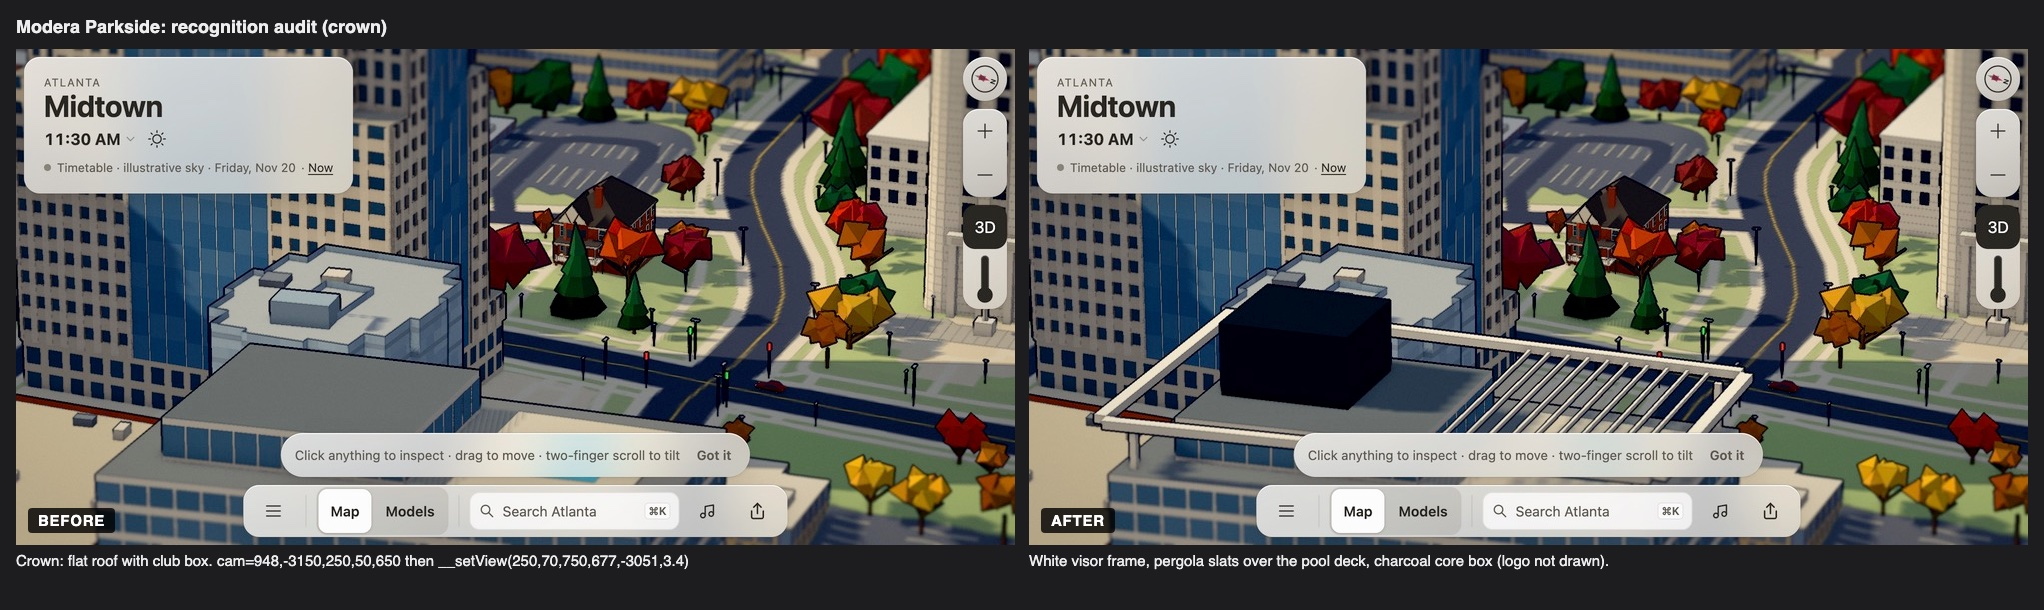
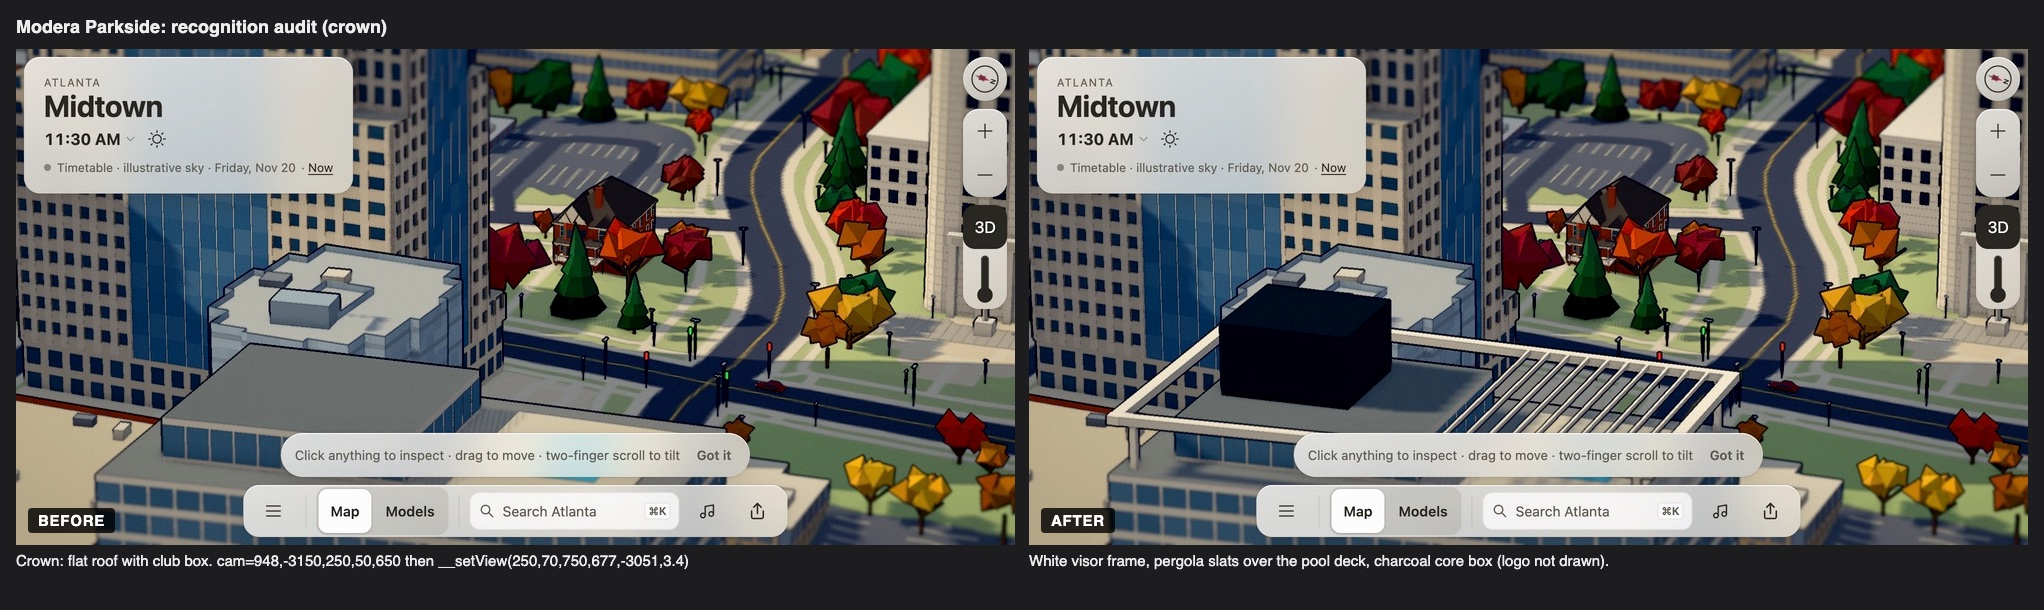
Set Modera Parkside's crown visor inside the slab outline so its posts and slats meet it

diff --git a/web/src/city/modera-parkside.ts b/web/src/city/modera-parkside.ts
@@ -74,7 +74,7 @@ export function createModeraParkside(buildings: VBuilding[], site: VBuilding, gr
   const visorLo = amenityTop + 0.6, visorHi = amenityTop + 1.6;
   slab.forEach((p, i) => {
     const q = slab[(i + 1) % slab.length], len = Math.hypot(q[0] - p[0], q[1] - p[1]);
-    const nx = (q[1] - p[1]) / len * 1.4, nz = -(q[0] - p[0]) / len * 1.4; // inward for a counter-clockwise ring
+    const nx = -(q[1] - p[1]) / len * 1.4, nz = (q[0] - p[0]) / len * 1.4; // inward for a counter-clockwise ring
     const band: P2[] = [p, q, [q[0] + nx, q[1] + nz], [p[0] + nx, p[1] + nz]];
     shell.prism(band, visorLo, visorHi, white, white);
   });
